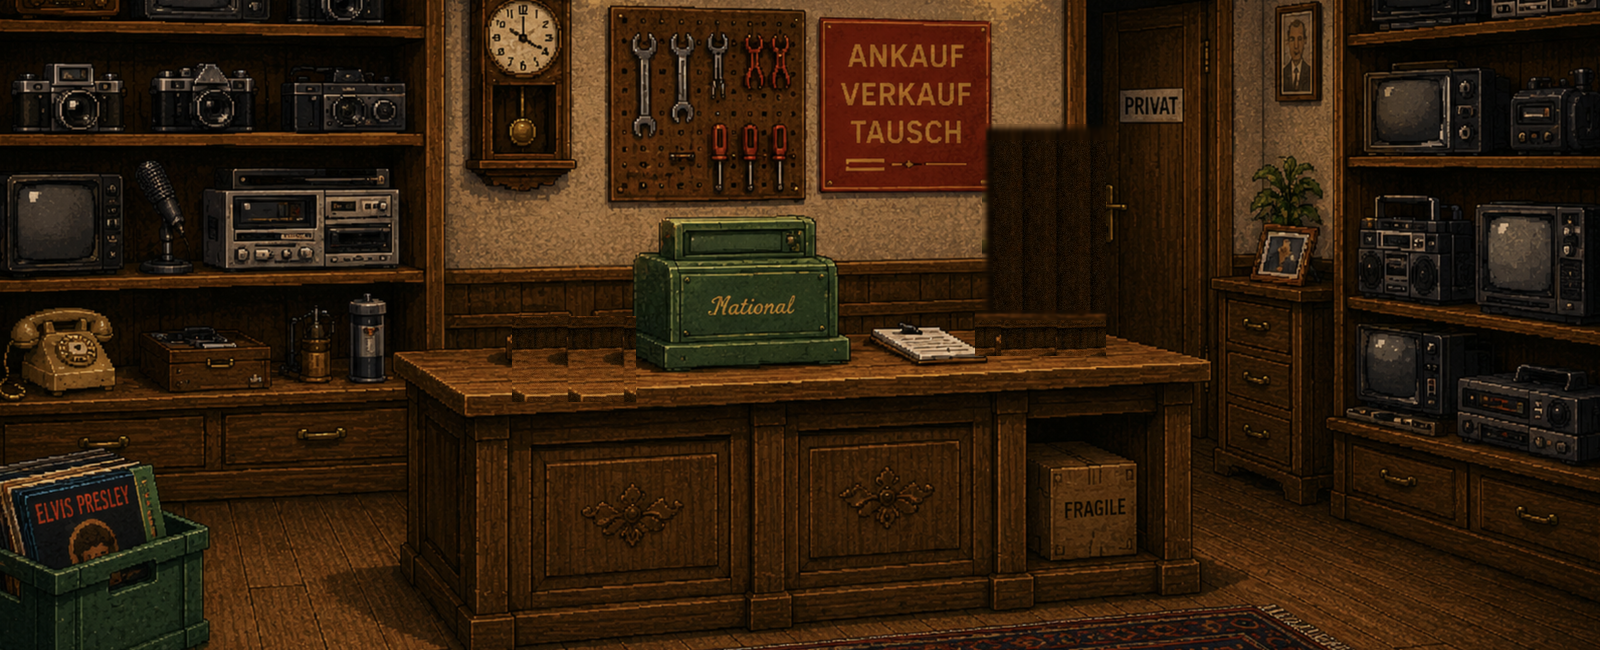
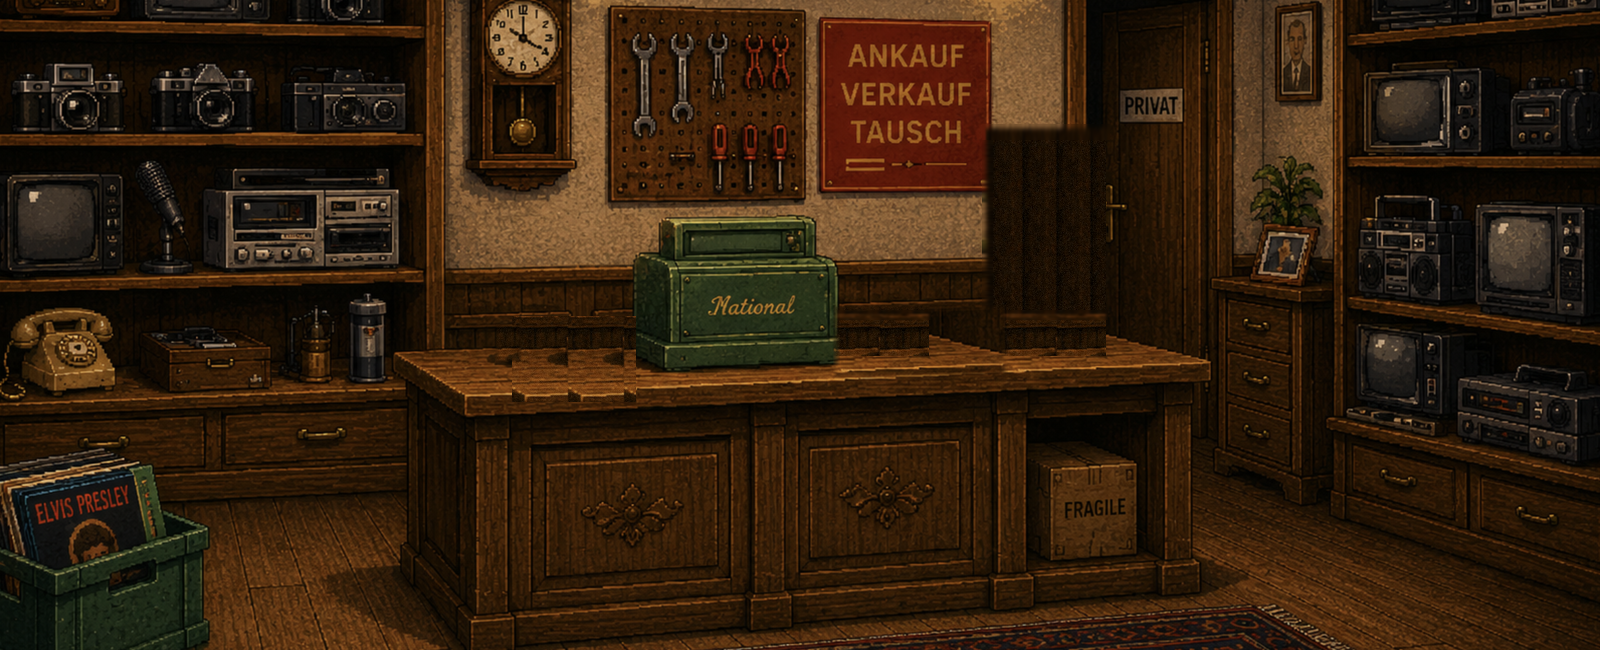
Gespraech vor der Schule, Discount-Passanten raus, Tresen gesaeubert, v130

Changed region(s): [[0.5, 0.4615, 0.625, 0.5846], [0.3125, 0.5231, 0.3438, 0.5538]]

diff --git a/kaufvertrag_demo.html b/kaufvertrag_demo.html
@@ -1018,7 +1018,7 @@ ende: pxSzene('#000010', (R,D)=>{
    Liegen im Repo PNGs mit diesen Namen, werden sie automatisch
    statt der Pixel-Programme geladen. Fehlen sie: Pixel-Fallback.
    ===================================================== */
-const BILD_VERSION = '129';
+const BILD_VERSION = '130';
 function vurl(u){ return u + '?v=' + BILD_VERSION; }
 const SZENEN_BILDER = {
   titel:'kaufvertrag_titel.png',
@@ -1160,6 +1160,8 @@ const LEHRER_S = ['kaufvertrag_lehrer_s_0.png','kaufvertrag_lehrer_s_1.png','kau
 let lehrerT = { t:null };
 const REKTOR_S = ['kaufvertrag_rektor_s_0.png','kaufvertrag_rektor_s_1.png','kaufvertrag_rektor_s_2.png','kaufvertrag_rektor_s_3.png','kaufvertrag_rektor_s_4.png','kaufvertrag_rektor_s_5.png'];
 let rektorT = { t:null };
+const MANN2_S = ['kaufvertrag_mann2_0.png','kaufvertrag_mann2_1.png','kaufvertrag_mann2_2.png','kaufvertrag_mann2_3.png','kaufvertrag_mann2_4.png','kaufvertrag_mann2_5.png'];
+const FRAU2_S = ['kaufvertrag_frau2_0.png','kaufvertrag_frau2_1.png','kaufvertrag_frau2_2.png','kaufvertrag_frau2_3.png','kaufvertrag_frau2_4.png','kaufvertrag_frau2_5.png'];
 function alexRuecksetzen(){
   const el=document.getElementById('sp-alex'); if(!el) return;
   const fr = kaeufer().frames;
@@ -1212,14 +1214,14 @@ const SPRITES = {
       x:660, y:172, w:94, h:51 },
   ],
   discount: [
-    { id:'passA', frames:['kaufvertrag_passant_0.png','kaufvertrag_passant_1.png','kaufvertrag_passant_2.png','kaufvertrag_passant_3.png'], x:-300, y:138, w:44, h:66 },
-    { id:'passB', frames:['kaufvertrag_passantin_0.png','kaufvertrag_passantin_1.png','kaufvertrag_passantin_2.png','kaufvertrag_passantin_3.png'], x:-300, y:138, w:44, h:66 },
     { id:'katze', frames:['kaufvertrag_katze_0.png','kaufvertrag_katze_1.png','kaufvertrag_katze_2.png',
       'kaufvertrag_katze_3.png','kaufvertrag_katze_4.png','kaufvertrag_katze_5.png','kaufvertrag_katze_6.png'],
       x:680, y:198, w:30, h:24 },
   ],
   front: [
     { id:'nest', frames:['kaufvertrag_nest_0.png','kaufvertrag_nest_1.png','kaufvertrag_nest_2.png'], x:503, y:66, w:25, h:23.2 },
+    { id:'mann2', frames:['kaufvertrag_mann2_0.png','kaufvertrag_mann2_1.png','kaufvertrag_mann2_2.png','kaufvertrag_mann2_3.png','kaufvertrag_mann2_4.png','kaufvertrag_mann2_5.png'], x:344, y:112, w:28, h:126 },
+    { id:'frau2', frames:['kaufvertrag_frau2_0.png','kaufvertrag_frau2_1.png','kaufvertrag_frau2_2.png','kaufvertrag_frau2_3.png','kaufvertrag_frau2_4.png','kaufvertrag_frau2_5.png'], x:399, y:118, w:34, h:120 },
     { id:'taubeA', frames:['kaufvertrag_taube_a0.png','kaufvertrag_taube_a1.png'], x:62, y:238, w:28, h:17 },
     { id:'taubeB', frames:['kaufvertrag_taube_b0.png','kaufvertrag_taube_b1.png'], x:90, y:240, w:26, h:16 },
   ],
@@ -1241,7 +1243,7 @@ if(typeof Image !== 'undefined'){
     .concat(Object.values(HAENDLER).map(h=>h.frames))
     .concat(Object.values(KAEUFER).map(k=>k.frames))
     .concat(Object.values(KAEUFER).map(k=>k.framesL).filter(Boolean))
-    .concat(Object.values(ALEX_S)).concat([LEHRER_S]).concat([REKTOR_S]).concat(Object.values(PASS_FRAMES));
+    .concat(Object.values(ALEX_S)).concat([LEHRER_S]).concat([REKTOR_S]).concat(Object.values(PASS_FRAMES)).concat([MANN2_S, FRAU2_S]);
   alleFrames.forEach(frames=>{
     frames.forEach(url=>{
       const im=new Image();
@@ -2329,7 +2331,7 @@ function portraetWeg(){
   if(portraet.weg){ clearTimeout(portraet.weg); portraet.weg = null; }
   try{ const g = szeneEl.querySelector('#sprechKopf'); if(g) g.remove(); }catch(e){}
 }
-const FIGUR_SPRITES = ['lehrer','tlehrer','trektor','meier','alex'];
+const FIGUR_SPRITES = ['lehrer','tlehrer','trektor','meier','alex','mann2','frau2'];
 function belebeFiguren(){
   if(reduzierteBewegung()) return;
   FIGUR_SPRITES.forEach(id=>{
@@ -2600,6 +2602,24 @@ function nestStart(){
   }, 4500);
 }
 function nestStop(){ if(nestT.t){ clearInterval(nestT.t); nestT.t = null; } }
+/* Gespraech vor der Schule (nahe der Kraehe): Mann & Frau reden abwechselnd */
+const frontGespr = { t:null, wer:0 };
+function frontGespraechStart(){
+  frontGespraechStop();
+  if(reduzierteBewegung()) return;
+  const schritt=()=>{
+    if(aktuelleSzeneId!=='front') return;
+    if(frontGespr.wer===0) mundFlap('mann2', MANN2_S, 2100 + Math.random()*1400, 0);
+    else                    mundFlap('frau2', FRAU2_S, 2100 + Math.random()*1400, 0);
+    frontGespr.wer ^= 1;
+  };
+  setTimeout(schritt, 800);
+  frontGespr.t = setInterval(schritt, 3100);
+}
+function frontGespraechStop(){
+  if(frontGespr.t){ clearInterval(frontGespr.t); frontGespr.t=null; }
+  ['mann2','frau2'].forEach(id=>{ if(flapT[id]){ clearInterval(flapT[id]); flapT[id]=null; } });
+}
 const tiere = { szene:null };
 function tiereWechsel(szene){
   if(tiere.szene === szene) return;   /* gleiche Szene: Choreografie NICHT neu starten */
@@ -2608,10 +2628,11 @@ function tiereWechsel(szene){
   lehrerStop();  /* alte Lehrer-Pose-Schleife deaktiviert – neuer Pixel-Lehrer via Sprite + mundFlap */
   if(szene==='weiche'){ kraeheStart(); } else { kraeheStop(); }
   if(szene==='front'){ nestStart(); } else { nestStop(); }
+  if(szene==='front'){ frontGespraechStart(); } else { frontGespraechStop(); }
   rektorStop();
   if(szene==='treppe'){ auftrittStop(); gespraechStart(); } else { auftrittStop(); gespraechStop(); }
   if(szene==='discount') katzeStart(); else katzeStop();
-  if(szene==='titel' || szene==='discount') passStart(szene); else passStop();
+  if(szene==='titel') passStart(szene); else passStop();
   if(szene==='front' || szene==='titel') taubenStart(); else taubenStop();
 }
 

diff --git a/kaufvertrag_fd642d69.html b/kaufvertrag_fd642d69.html
@@ -1019,7 +1019,7 @@ ende: pxSzene('#000010', (R,D)=>{
    Liegen im Repo PNGs mit diesen Namen, werden sie automatisch
    statt der Pixel-Programme geladen. Fehlen sie: Pixel-Fallback.
    ===================================================== */
-const BILD_VERSION = '129';
+const BILD_VERSION = '130';
 function vurl(u){ return u + '?v=' + BILD_VERSION; }
 const SZENEN_BILDER = {
   titel:'kaufvertrag_titel.png',
@@ -1161,6 +1161,8 @@ const LEHRER_S = ['kaufvertrag_lehrer_s_0.png','kaufvertrag_lehrer_s_1.png','kau
 let lehrerT = { t:null };
 const REKTOR_S = ['kaufvertrag_rektor_s_0.png','kaufvertrag_rektor_s_1.png','kaufvertrag_rektor_s_2.png','kaufvertrag_rektor_s_3.png','kaufvertrag_rektor_s_4.png','kaufvertrag_rektor_s_5.png'];
 let rektorT = { t:null };
+const MANN2_S = ['kaufvertrag_mann2_0.png','kaufvertrag_mann2_1.png','kaufvertrag_mann2_2.png','kaufvertrag_mann2_3.png','kaufvertrag_mann2_4.png','kaufvertrag_mann2_5.png'];
+const FRAU2_S = ['kaufvertrag_frau2_0.png','kaufvertrag_frau2_1.png','kaufvertrag_frau2_2.png','kaufvertrag_frau2_3.png','kaufvertrag_frau2_4.png','kaufvertrag_frau2_5.png'];
 function alexRuecksetzen(){
   const el=document.getElementById('sp-alex'); if(!el) return;
   const fr = kaeufer().frames;
@@ -1213,14 +1215,14 @@ const SPRITES = {
       x:660, y:172, w:94, h:51 },
   ],
   discount: [
-    { id:'passA', frames:['kaufvertrag_passant_0.png','kaufvertrag_passant_1.png','kaufvertrag_passant_2.png','kaufvertrag_passant_3.png'], x:-300, y:138, w:44, h:66 },
-    { id:'passB', frames:['kaufvertrag_passantin_0.png','kaufvertrag_passantin_1.png','kaufvertrag_passantin_2.png','kaufvertrag_passantin_3.png'], x:-300, y:138, w:44, h:66 },
     { id:'katze', frames:['kaufvertrag_katze_0.png','kaufvertrag_katze_1.png','kaufvertrag_katze_2.png',
       'kaufvertrag_katze_3.png','kaufvertrag_katze_4.png','kaufvertrag_katze_5.png','kaufvertrag_katze_6.png'],
       x:680, y:198, w:30, h:24 },
   ],
   front: [
     { id:'nest', frames:['kaufvertrag_nest_0.png','kaufvertrag_nest_1.png','kaufvertrag_nest_2.png'], x:503, y:66, w:25, h:23.2 },
+    { id:'mann2', frames:['kaufvertrag_mann2_0.png','kaufvertrag_mann2_1.png','kaufvertrag_mann2_2.png','kaufvertrag_mann2_3.png','kaufvertrag_mann2_4.png','kaufvertrag_mann2_5.png'], x:344, y:112, w:28, h:126 },
+    { id:'frau2', frames:['kaufvertrag_frau2_0.png','kaufvertrag_frau2_1.png','kaufvertrag_frau2_2.png','kaufvertrag_frau2_3.png','kaufvertrag_frau2_4.png','kaufvertrag_frau2_5.png'], x:399, y:118, w:34, h:120 },
     { id:'taubeA', frames:['kaufvertrag_taube_a0.png','kaufvertrag_taube_a1.png'], x:62, y:238, w:28, h:17 },
     { id:'taubeB', frames:['kaufvertrag_taube_b0.png','kaufvertrag_taube_b1.png'], x:90, y:240, w:26, h:16 },
   ],
@@ -1242,7 +1244,7 @@ if(typeof Image !== 'undefined'){
     .concat(Object.values(HAENDLER).map(h=>h.frames))
     .concat(Object.values(KAEUFER).map(k=>k.frames))
     .concat(Object.values(KAEUFER).map(k=>k.framesL).filter(Boolean))
-    .concat(Object.values(ALEX_S)).concat([LEHRER_S]).concat([REKTOR_S]).concat(Object.values(PASS_FRAMES));
+    .concat(Object.values(ALEX_S)).concat([LEHRER_S]).concat([REKTOR_S]).concat(Object.values(PASS_FRAMES)).concat([MANN2_S, FRAU2_S]);
   alleFrames.forEach(frames=>{
     frames.forEach(url=>{
       const im=new Image();
@@ -2330,7 +2332,7 @@ function portraetWeg(){
   if(portraet.weg){ clearTimeout(portraet.weg); portraet.weg = null; }
   try{ const g = szeneEl.querySelector('#sprechKopf'); if(g) g.remove(); }catch(e){}
 }
-const FIGUR_SPRITES = ['lehrer','tlehrer','trektor','meier','alex'];
+const FIGUR_SPRITES = ['lehrer','tlehrer','trektor','meier','alex','mann2','frau2'];
 function belebeFiguren(){
   if(reduzierteBewegung()) return;
   FIGUR_SPRITES.forEach(id=>{
@@ -2601,6 +2603,24 @@ function nestStart(){
   }, 4500);
 }
 function nestStop(){ if(nestT.t){ clearInterval(nestT.t); nestT.t = null; } }
+/* Gespraech vor der Schule (nahe der Kraehe): Mann & Frau reden abwechselnd */
+const frontGespr = { t:null, wer:0 };
+function frontGespraechStart(){
+  frontGespraechStop();
+  if(reduzierteBewegung()) return;
+  const schritt=()=>{
+    if(aktuelleSzeneId!=='front') return;
+    if(frontGespr.wer===0) mundFlap('mann2', MANN2_S, 2100 + Math.random()*1400, 0);
+    else                    mundFlap('frau2', FRAU2_S, 2100 + Math.random()*1400, 0);
+    frontGespr.wer ^= 1;
+  };
+  setTimeout(schritt, 800);
+  frontGespr.t = setInterval(schritt, 3100);
+}
+function frontGespraechStop(){
+  if(frontGespr.t){ clearInterval(frontGespr.t); frontGespr.t=null; }
+  ['mann2','frau2'].forEach(id=>{ if(flapT[id]){ clearInterval(flapT[id]); flapT[id]=null; } });
+}
 const tiere = { szene:null };
 function tiereWechsel(szene){
   if(tiere.szene === szene) return;   /* gleiche Szene: Choreografie NICHT neu starten */
@@ -2609,10 +2629,11 @@ function tiereWechsel(szene){
   lehrerStop();  /* alte Lehrer-Pose-Schleife deaktiviert – neuer Pixel-Lehrer via Sprite + mundFlap */
   if(szene==='weiche'){ kraeheStart(); } else { kraeheStop(); }
   if(szene==='front'){ nestStart(); } else { nestStop(); }
+  if(szene==='front'){ frontGespraechStart(); } else { frontGespraechStop(); }
   rektorStop();
   if(szene==='treppe'){ auftrittStop(); gespraechStart(); } else { auftrittStop(); gespraechStop(); }
   if(szene==='discount') katzeStart(); else katzeStop();
-  if(szene==='titel' || szene==='discount') passStart(szene); else passStop();
+  if(szene==='titel') passStart(szene); else passStop();
   if(szene==='front' || szene==='titel') taubenStart(); else taubenStop();
 }
 
